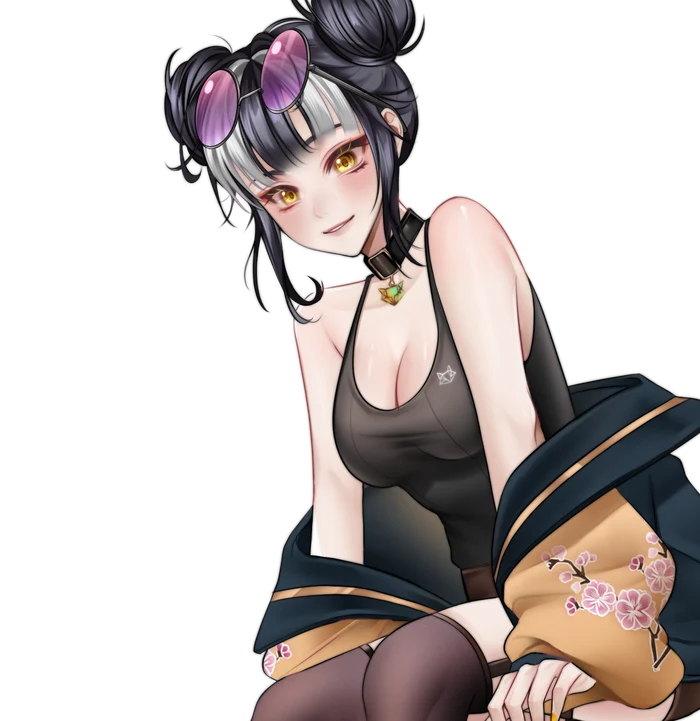
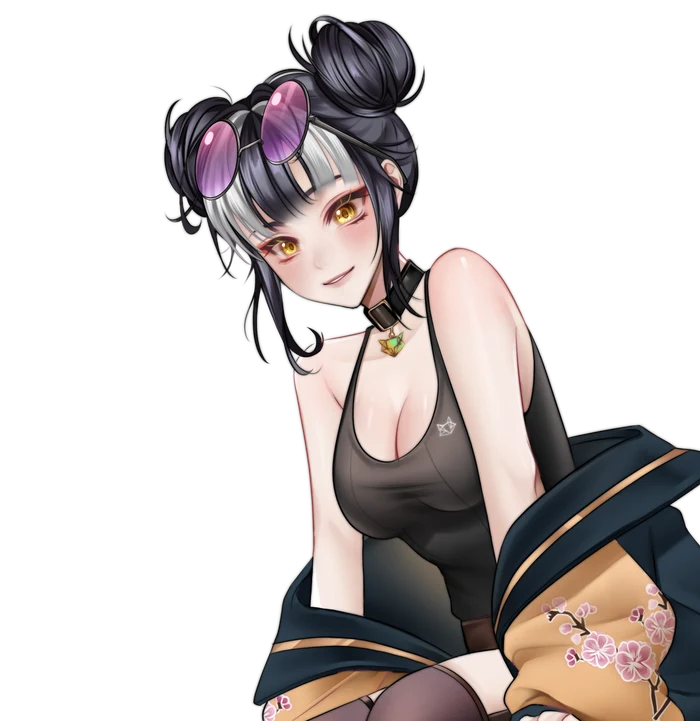
Single-image talents sit flush to frame bottom; SaiMaiZ fills frame; XINPIA close-up headroom
Claude-Session: https://claude.ai/code/session_0182ETGqkY6VZC2ACV9rE9Mb

diff --git a/index.html b/index.html
@@ -486,6 +486,9 @@ html[lang="th"] .h2{padding-top:.08em}
 .tier::after{content:'';position:absolute;inset:0;border-radius:inherit;padding:3px;pointer-events:none;z-index:2;-webkit-mask:linear-gradient(#000 0 0) content-box,linear-gradient(#000 0 0);-webkit-mask-composite:xor;mask:linear-gradient(#000 0 0) content-box exclude,linear-gradient(#000 0 0)}
 .r-face.tier::after{padding:2.5px}
 .stage-art.tier::after{padding:4px}
+.stage-art.flush{align-items:flex-end}
+.stage-art.flush .stage-img{padding:12px 12px 0;object-position:center bottom}
+.stage-art.fill .stage-img{position:absolute;inset:0;width:100%;height:100%;max-height:none;padding:0;object-fit:cover}
 .tier-chip.big{top:14px;right:14px;font-size:13px;padding:4px 11px}
 .tier-silver::after{background:linear-gradient(135deg,#F7F8FA 0%,#A9B0BB 30%,#FFFFFF 50%,#8E96A3 72%,#E9ECF0 100%)}
 .tier-gold::after{background:linear-gradient(135deg,#FFF4C8 0%,#D9A93A 30%,#FFF7DA 50%,#B88424 72%,#F6DE8F 100%)}
@@ -1005,25 +1008,25 @@ var TALENTS = [
   { id:'v7-qmon', img:'talent-v7-qmon.webp', face:'talent-v7-qmon-face.webp?v=4', halves:['talent-v7-qmon-half.webp?v=4'], card:'talent-v7-qmon-half.webp?v=4', name:'TheQuillmon', short:'Quillmon', ini:'T', type:'VTuber', aff:{name:'Virtual 7', logo:'logos/virtual7.png'}, langs:['th', 'en'], color:'#F6DADA', tags:['#FreeTalk', '#Gaming'], works:['promo', 'review', 'dub', 'collab'], links:[['YouTube',405000,'https://www.youtube.com/@TheQuillmon'],['X',null,'https://x.com/thequillmon1112'],['TikTok',null,'https://www.tiktok.com/@thequillmon'],['Facebook',null,'https://www.facebook.com/thequillmonnn']] },
   { id:'v7-miyabi', img:'talent-v7-miyabi.webp', face:'talent-v7-miyabi-face.webp?v=4', halves:['talent-v7-miyabi-half.webp?v=4'], card:'talent-v7-miyabi-half.webp?v=4', name:'Moe Miyabi', short:'Miyabi', ini:'MM', type:'VTuber', aff:{name:'Virtual 7', logo:'logos/virtual7.png'}, langs:['th', 'en'], color:'#E6E1F0', tags:['#FreeTalk', '#ASMR', '#Gaming'], works:['promo', 'review', 'dub', 'collab'], links:[['YouTube',12400,'https://www.youtube.com/@MoeMiyabiV7'],['X',null,'https://x.com/moe_miyabi'],['TikTok',null,'https://www.tiktok.com/@moe_miyabi'],['Twitch',null,'https://www.twitch.tv/moemiyabi'],['Facebook',null,'https://www.facebook.com/MoeMiyabiVZ']] },
   { id:'v7-ziika', img:'talent-v7-ziika.webp', face:'talent-v7-ziika-face.webp?v=4', halves:['talent-v7-ziika-half.webp?v=4'], card:'talent-v7-ziika-half.webp?v=4', name:'Ziika', short:'Ziika', ini:'Z', type:'VTuber', aff:{name:'Virtual 7', logo:'logos/virtual7.png'}, langs:['th', 'en'], color:'#E3E8F2', tags:['#FreeTalk', '#Singing'], works:['promo', 'review', 'dub', 'collab', 'cover'], links:[['YouTube',11300,'https://www.youtube.com/@MU_ziika'],['X',null,'https://x.com/MU_Ziika'],['TikTok',null,'https://www.tiktok.com/@mu_ziika'],['Twitch',null,'https://www.twitch.tv/ziika_vz'],['Facebook',null,'https://www.facebook.com/ZiikaVZ']] },
-  { id:'v7-c', img:'talent-v7-c.webp', face:'talent-v7-c-face.webp?v=4', name:'C', short:'C', ini:'C', type:'VTuber', aff:{name:'Virtual 7', logo:'logos/virtual7.png'}, langs:['th'], color:'#DDF3D6', tags:['#FreeTalk', '#Gaming'], works:['promo', 'review', 'dub', 'collab'], links:[['YouTube',4290,'https://www.youtube.com/@ProjectC_VZ'],['X',null,'https://x.com/VZ_Project_C'],['TikTok',null,'https://www.tiktok.com/@project_c.vz'],['Facebook',null,'https://www.facebook.com/ProjectC.vz']] },
+  { id:'v7-c', flush:true, img:'talent-v7-c.webp', face:'talent-v7-c-face.webp?v=4', name:'C', short:'C', ini:'C', type:'VTuber', aff:{name:'Virtual 7', logo:'logos/virtual7.png'}, langs:['th'], color:'#DDF3D6', tags:['#FreeTalk', '#Gaming'], works:['promo', 'review', 'dub', 'collab'], links:[['YouTube',4290,'https://www.youtube.com/@ProjectC_VZ'],['X',null,'https://x.com/VZ_Project_C'],['TikTok',null,'https://www.tiktok.com/@project_c.vz'],['Facebook',null,'https://www.facebook.com/ProjectC.vz']] },
   { id:'v7-phoebe', img:'talent-v7-phoebe.webp', face:'talent-v7-phoebe-face.webp?v=4', name:'Phoebe', short:'Phoebe', ini:'P', type:'VTuber', aff:{name:'Virtual 7', logo:'logos/virtual7.png'}, langs:['th', 'en'], color:'#DDF1EE', tags:['#FreeTalk', '#Gaming'], works:['promo', 'review', 'dub', 'collab'], links:[['YouTube',4020,'https://www.youtube.com/@PhoebeVZ'],['X',null,'https://x.com/vz_phoebe'],['TikTok',null,'https://www.tiktok.com/@phoebebuddyvz'],['Facebook',null,'https://www.facebook.com/PhoebeVZ']] },
   { id:'v7-wint3r', img:'talent-v7-wint3r.webp', face:'talent-v7-wint3r-face.webp?v=4', halves:['talent-v7-wint3r-half.webp?v=4'], card:'talent-v7-wint3r-half.webp?v=4', name:'WIN3R', short:'WIN3R', ini:'W', type:'VTuber', aff:{name:'Virtual 7', logo:'logos/virtual7.png'}, langs:['th', 'en'], color:'#E6E0FA', tags:['#FreeTalk', '#ASMR', '#Singing'], works:['promo', 'review', 'dub', 'collab', 'cover'], links:[['YouTube',14900,'https://www.youtube.com/@wint3r_vz'],['X',null,'https://x.com/wint3r_vz'],['TikTok',null,'https://www.tiktok.com/@wint3r_vz'],['Facebook',null,'https://www.facebook.com/Wint3rVZ']] },
-  { id:'v7-sp1ng', img:'talent-v7-sp1ng.webp', face:'talent-v7-sp1ng-face.webp?v=4', name:'SPR1NG', short:'SPR1NG', ini:'S', type:'VTuber', aff:{name:'Virtual 7', logo:'logos/virtual7.png'}, langs:['th', 'en'], color:'#D9F3EF', tags:['#FreeTalk', '#Gaming'], works:['promo', 'review', 'dub', 'collab'], links:[['YouTube',5770,'https://www.youtube.com/@spr1ng_vz'],['X',null,'https://x.com/SPR1NG_VZ'],['TikTok',null,'https://www.tiktok.com/@spr1ng_vz']] },
+  { id:'v7-sp1ng', flush:true, img:'talent-v7-sp1ng.webp', face:'talent-v7-sp1ng-face.webp?v=4', name:'SPR1NG', short:'SPR1NG', ini:'S', type:'VTuber', aff:{name:'Virtual 7', logo:'logos/virtual7.png'}, langs:['th', 'en'], color:'#D9F3EF', tags:['#FreeTalk', '#Gaming'], works:['promo', 'review', 'dub', 'collab'], links:[['YouTube',5770,'https://www.youtube.com/@spr1ng_vz'],['X',null,'https://x.com/SPR1NG_VZ'],['TikTok',null,'https://www.tiktok.com/@spr1ng_vz']] },
   { id:'v7-statesia', img:'talent-v7-statesia.webp', face:'talent-v7-statesia-face.webp?v=6', halves:['talent-v7-statesia-half.webp?v=4'], card:'talent-v7-statesia-half.webp?v=4', name:'STATE & SIA', short:'STATE & SIA', ini:'SS', type:'VTuber', aff:{name:'Virtual 7', logo:'logos/virtual7.png'}, langs:['th'], color:'#F6E1E6', tags:['#FreeTalk', '#Singing', '#Gaming'], works:['promo', 'review', 'dub', 'collab', 'cover'], links:[['YouTube',10500,'https://www.youtube.com/@StateSiaVZ'],['TikTok',null,'https://www.tiktok.com/@statesia.vz'],['X',null,'https://x.com/State_vz','X (State)'],['X',null,'https://x.com/SIA_vz','X (Sia)'],['Facebook',null,'https://www.facebook.com/statesia.vz']] },
-  { id:'v7-perika', img:'talent-v7-perika.webp', face:'talent-v7-perika-face.webp?v=4', name:'PE:RIKA', short:'PE:RIKA', ini:'P', type:'VTuber', aff:{name:'Virtual 7', logo:'logos/virtual7.png'}, langs:['th', 'en'], color:'#E2E8F4', tags:['#FreeTalk', '#Gaming'], works:['promo', 'review', 'dub', 'collab'], links:[['YouTube',2290,'https://www.youtube.com/@PerikaVZ'],['X',null,'https://x.com/PerikaVZ']] },
-  { id:'v7-cheshire', img:'talent-v7-cheshire.webp', face:'talent-v7-cheshire-face.webp?v=4', name:'CHE:SHIRE', short:'CHE:SHIRE', ini:'C', type:'VTuber', aff:{name:'Virtual 7', logo:'logos/virtual7.png'}, langs:['th'], color:'#E4E0F6', tags:['#FreeTalk', '#Gaming'], works:['promo', 'review', 'dub', 'collab'], links:[['YouTube',9010,'https://www.youtube.com/@CheshireVZ'],['X',null,'https://x.com/CheshireVZ']] },
+  { id:'v7-perika', flush:true, img:'talent-v7-perika.webp', face:'talent-v7-perika-face.webp?v=4', name:'PE:RIKA', short:'PE:RIKA', ini:'P', type:'VTuber', aff:{name:'Virtual 7', logo:'logos/virtual7.png'}, langs:['th', 'en'], color:'#E2E8F4', tags:['#FreeTalk', '#Gaming'], works:['promo', 'review', 'dub', 'collab'], links:[['YouTube',2290,'https://www.youtube.com/@PerikaVZ'],['X',null,'https://x.com/PerikaVZ']] },
+  { id:'v7-cheshire', flush:true, img:'talent-v7-cheshire.webp', face:'talent-v7-cheshire-face.webp?v=4', name:'CHE:SHIRE', short:'CHE:SHIRE', ini:'C', type:'VTuber', aff:{name:'Virtual 7', logo:'logos/virtual7.png'}, langs:['th'], color:'#E4E0F6', tags:['#FreeTalk', '#Gaming'], works:['promo', 'review', 'dub', 'collab'], links:[['YouTube',9010,'https://www.youtube.com/@CheshireVZ'],['X',null,'https://x.com/CheshireVZ']] },
   { id:'v7-stamplmty', img:'talent-v7-stamplmty.webp', face:'talent-v7-stamplmty-face.webp?v=4', halves:['talent-v7-stamplmty-half.webp?v=4'], card:'talent-v7-stamplmty-half.webp?v=4', name:'Stamp LMTY', short:'Stamp', ini:'SL', type:'VTuber', aff:{name:'Virtual 7', logo:'logos/virtual7.png'}, langs:['th', 'en'], color:'#F2E2EA', tags:['#FreeTalk', '#Gaming'], works:['promo', 'review', 'dub', 'collab'], links:[['YouTube',160000,'https://www.youtube.com/@StampLMTY'],['X',null,'https://x.com/StampLMTY'],['TikTok',null,'https://www.tiktok.com/@stamplmty'],['Facebook',null,'https://www.facebook.com/StampLMTY']] },
-  { id:'v7-xinpia', img:'talent-v7-xinpia.webp', face:'talent-v7-xinpia-face.webp?v=4', halves:['talent-v7-xinpia-half.webp?v=4'], card:'talent-v7-xinpia-half.webp?v=4', name:'XINPIA', short:'XINPIA', ini:'X', type:'VTuber', aff:{name:'Virtual 7', logo:'logos/virtual7.png'}, langs:['th'], color:'#EEE6DD', tags:['#FreeTalk', '#Gaming'], works:['promo', 'review', 'dub', 'collab'], links:[['YouTube',2600,'https://www.youtube.com/@XINPIA'],['X',null,'https://x.com/xinpia'],['TikTok',null,'https://www.tiktok.com/@xinpia03'],['Facebook',null,'https://www.facebook.com/XINPIA03'],['Twitch',null,'https://www.twitch.tv/xinpia03']] },
+  { id:'v7-xinpia', img:'talent-v7-xinpia.webp', face:'talent-v7-xinpia-face.webp?v=4', halves:['talent-v7-xinpia-half.webp?v=5'], card:'talent-v7-xinpia-half.webp?v=5', name:'XINPIA', short:'XINPIA', ini:'X', type:'VTuber', aff:{name:'Virtual 7', logo:'logos/virtual7.png'}, langs:['th'], color:'#EEE6DD', tags:['#FreeTalk', '#Gaming'], works:['promo', 'review', 'dub', 'collab'], links:[['YouTube',2600,'https://www.youtube.com/@XINPIA'],['X',null,'https://x.com/xinpia'],['TikTok',null,'https://www.tiktok.com/@xinpia03'],['Facebook',null,'https://www.facebook.com/XINPIA03'],['Twitch',null,'https://www.twitch.tv/xinpia03']] },
   { id:'v7-shogo', img:'talent-v7-shogo.webp', face:'talent-v7-shogo-face.webp?v=5', halves:['talent-v7-shogo-half.webp?v=4'], card:'talent-v7-shogo-half.webp?v=4', name:'Shogo', short:'Shogo', ini:'S', type:'VTuber', aff:{name:'Virtual 7', logo:'logos/virtual7.png'}, langs:['th'], color:'#E3F0E4', tags:['#FreeTalk', '#Gaming', '#Singing'], works:['promo', 'review', 'dub', 'collab', 'cover'], links:[['YouTube',20100,'https://www.youtube.com/@ShogoCh'],['X',null,'https://x.com/KamikoShogo'],['TikTok',null,'https://www.tiktok.com/@kamikoshogo'],['Facebook',null,'https://www.facebook.com/people/Shogo-CH/100089248571864/']] },
-  { id:'v7-firstslove', img:'talent-v7-firstslove.webp', face:'talent-v7-firstslove-face.webp?v=4', name:'FL_FirstsLove', short:'FirstsLove', ini:'F', type:'VTuber', aff:{name:'Virtual 7', logo:'logos/virtual7.png'}, langs:['th', 'en'], color:'#F3E6DA', tags:['#FreeTalk', '#Gaming', '#Singing'], works:['promo', 'review', 'dub', 'collab', 'cover'], links:[['YouTube',6860,'https://www.youtube.com/@fl_firstslove'],['X',null,'https://x.com/FL_FirstsLove'],['TikTok',null,'https://www.tiktok.com/@fl_firstslove'],['Facebook',null,'https://www.facebook.com/FL.FirstsLove'],['Twitch',null,'https://www.twitch.tv/fl_firstslove'],['Instagram',null,'https://www.instagram.com/fl.firstslove']] },
-  { id:'v7-saimaiz', img:'talent-v7-saimaiz.webp', face:'talent-v7-saimaiz-face.webp?v=4', name:'SaiMaiZ', short:'SaiMaiZ', ini:'S', type:'VTuber', aff:{name:'Virtual 7', logo:'logos/virtual7.png'}, langs:['th'], color:'#EADCF2', tags:['#FreeTalk', '#Gaming', '#Singing'], works:['promo', 'review', 'dub', 'collab', 'cover'], links:[['YouTube',10200,'https://www.youtube.com/@SaiMaiZ'],['X',null,'https://x.com/SaiMaiZ_'],['TikTok',null,'https://www.tiktok.com/@saimaiz_'],['Facebook',null,'https://www.facebook.com/SaiMaiZVtuberTH'],['Twitch',null,'https://www.twitch.tv/saimaizvtuberth']] },
-  { id:'v7-foodiefo', img:'talent-v7-foodiefo.webp', face:'talent-v7-foodiefo-face.webp?v=4', name:'FoodieFo', short:'FoodieFo', ini:'F', type:'VTuber', aff:{name:'Virtual 7', logo:'logos/virtual7.png'}, langs:['th'], color:'#FCE6E3', tags:['#FreeTalk'], works:['promo', 'review', 'dub', 'collab'], links:[['YouTube',3770,'https://www.youtube.com/@foodiefoch'],['X',null,'https://x.com/FoodieFo_4'],['TikTok',null,'https://www.tiktok.com/@foodiefo_4'],['Facebook',null,'https://www.facebook.com/profile.php?id=100081675722891']] },
+  { id:'v7-firstslove', flush:true, img:'talent-v7-firstslove.webp', face:'talent-v7-firstslove-face.webp?v=4', name:'FL_FirstsLove', short:'FirstsLove', ini:'F', type:'VTuber', aff:{name:'Virtual 7', logo:'logos/virtual7.png'}, langs:['th', 'en'], color:'#F3E6DA', tags:['#FreeTalk', '#Gaming', '#Singing'], works:['promo', 'review', 'dub', 'collab', 'cover'], links:[['YouTube',6860,'https://www.youtube.com/@fl_firstslove'],['X',null,'https://x.com/FL_FirstsLove'],['TikTok',null,'https://www.tiktok.com/@fl_firstslove'],['Facebook',null,'https://www.facebook.com/FL.FirstsLove'],['Twitch',null,'https://www.twitch.tv/fl_firstslove'],['Instagram',null,'https://www.instagram.com/fl.firstslove']] },
+  { id:'v7-saimaiz', fill:'58% 40%', img:'talent-v7-saimaiz.webp?v=2', face:'talent-v7-saimaiz-face.webp?v=4', name:'SaiMaiZ', short:'SaiMaiZ', ini:'S', type:'VTuber', aff:{name:'Virtual 7', logo:'logos/virtual7.png'}, langs:['th'], color:'#EADCF2', tags:['#FreeTalk', '#Gaming', '#Singing'], works:['promo', 'review', 'dub', 'collab', 'cover'], links:[['YouTube',10200,'https://www.youtube.com/@SaiMaiZ'],['X',null,'https://x.com/SaiMaiZ_'],['TikTok',null,'https://www.tiktok.com/@saimaiz_'],['Facebook',null,'https://www.facebook.com/SaiMaiZVtuberTH'],['Twitch',null,'https://www.twitch.tv/saimaizvtuberth']] },
+  { id:'v7-foodiefo', flush:true, img:'talent-v7-foodiefo.webp', face:'talent-v7-foodiefo-face.webp?v=4', name:'FoodieFo', short:'FoodieFo', ini:'F', type:'VTuber', aff:{name:'Virtual 7', logo:'logos/virtual7.png'}, langs:['th'], color:'#FCE6E3', tags:['#FreeTalk'], works:['promo', 'review', 'dub', 'collab'], links:[['YouTube',3770,'https://www.youtube.com/@foodiefoch'],['X',null,'https://x.com/FoodieFo_4'],['TikTok',null,'https://www.tiktok.com/@foodiefo_4'],['Facebook',null,'https://www.facebook.com/profile.php?id=100081675722891']] },
   { id:'v7-derya', img:'talent-v7-derya.webp', face:'talent-v7-derya-face.webp?v=4', halves:['talent-v7-derya-half.webp?v=4'], card:'talent-v7-derya-half.webp?v=4', name:'Derya', short:'Derya', ini:'D', type:'VTuber', aff:{name:'Virtual 7', logo:'logos/virtual7.png'}, langs:['th'], color:'#E8E0F4', tags:['#FreeTalk', '#Gaming', '#Singing'], works:['promo', 'review', 'dub', 'collab', 'cover'], links:[['YouTube',668,'https://www.youtube.com/@Derya_Vtuber'],['X',null,'https://x.com/DeryaVtuber'],['TikTok',null,'https://www.tiktok.com/@derya_vtuber']] },
   { id:'v7-cozyclover', img:'talent-v7-cozyclover.webp', face:'talent-v7-cozyclover-face.webp?v=5', halves:['talent-v7-cozyclover-half.webp?v=4'], card:'talent-v7-cozyclover-half.webp?v=4', name:'CozyClover', short:'CozyClover', ini:'C', type:'VTuber', aff:{name:'Virtual 7', logo:'logos/virtual7.png'}, langs:['th'], color:'#E1EAF7', tags:['#FreeTalk', '#Gaming', '#Singing'], works:['promo', 'review', 'dub', 'collab', 'cover'], links:[['YouTube',4650,'https://www.youtube.com/@CozyClover-Vtuber'],['X',null,'https://x.com/CozyClover_'],['TikTok',null,'https://www.tiktok.com/@cozyclover_'],['Facebook',null,'https://www.facebook.com/profile.php?id=100093952976608'],['Twitch',null,'https://www.twitch.tv/cozyclover_']] },
   { id:'v7-amellyn', img:'talent-v7-amellyn.webp', face:'talent-v7-amellyn-face.webp?v=4', halves:['talent-v7-amellyn-half.webp?v=4'], card:'talent-v7-amellyn-half.webp?v=4', name:'Amellyn', short:'Amellyn', ini:'A', type:'VTuber', aff:{name:'Virtual 7', logo:'logos/virtual7.png'}, langs:['th'], color:'#FBE1EC', tags:['#FreeTalk', '#Gaming'], works:['promo', 'review', 'dub', 'collab'], links:[['YouTube',1480,'https://www.youtube.com/@AmellynFairy'],['X',null,'https://x.com/AmellynFairy'],['TikTok',null,'https://www.tiktok.com/@amellynfairy']] },
   { id:'v7-jazy', img:'talent-v7-jazy.webp', face:'talent-v7-jazy-face.webp?v=4', halves:['talent-v7-jazy-half.webp?v=4'], card:'talent-v7-jazy-half.webp?v=4', name:'JazyKix', short:'JazyKix', ini:'J', type:'VTuber', aff:{name:'Virtual 7', logo:'logos/virtual7.png'}, langs:['th'], color:'#DDEDEE', tags:['#FreeTalk', '#Gaming', '#Singing'], works:['promo', 'review', 'dub', 'collab', 'cover'], links:[['YouTube',1690,'https://www.youtube.com/@JazyKix_Channel'],['X',null,'https://x.com/JazyKix_Vtuber'],['TikTok',null,'https://www.tiktok.com/@jazykix'],['Facebook',null,'https://www.facebook.com/jazykix.vtuber']] },
   { id:'v7-lumin', img:'talent-v7-lumin.webp', face:'talent-v7-lumin-face.webp?v=4', halves:['talent-v7-lumin-half.webp?v=4'], card:'talent-v7-lumin-half.webp?v=4', name:'LUM1N S.', short:'LUM1N', ini:'LS', type:'VTuber', aff:{name:'Virtual 7', logo:'logos/virtual7.png'}, langs:['th', 'en'], color:'#F3EEDD', tags:['#FreeTalk', '#Gaming', '#RolePlay'], works:['promo', 'review', 'dub', 'collab'], links:[['YouTube',2380,'https://www.youtube.com/@LUM1NS'],['X',null,'https://x.com/LuminShinehart'],['TikTok',null,'https://www.tiktok.com/@luminshinehart']] },
-  { id:'v7-kealan', img:'talent-v7-kealan.webp', face:'talent-v7-kealan-face.webp?v=5', name:'Kealan Hmm', short:'Kealan', ini:'KH', type:'VTuber', aff:{name:'Virtual 7', logo:'logos/virtual7.png'}, langs:['th', 'en'], color:'#DFE3F3', tags:['#FreeTalk', '#Gaming'], works:['promo', 'review', 'dub', 'collab'], links:[['YouTube',1750,'https://www.youtube.com/@KealanHmm'],['X',null,'https://x.com/KealanHmm'],['TikTok',null,'https://www.tiktok.com/@kealan.hmm']] },
+  { id:'v7-kealan', flush:true, img:'talent-v7-kealan.webp', face:'talent-v7-kealan-face.webp?v=5', name:'Kealan Hmm', short:'Kealan', ini:'KH', type:'VTuber', aff:{name:'Virtual 7', logo:'logos/virtual7.png'}, langs:['th', 'en'], color:'#DFE3F3', tags:['#FreeTalk', '#Gaming'], works:['promo', 'review', 'dub', 'collab'], links:[['YouTube',1750,'https://www.youtube.com/@KealanHmm'],['X',null,'https://x.com/KealanHmm'],['TikTok',null,'https://www.tiktok.com/@kealan.hmm']] },
   { id:'v7-poya', img:'talent-v7-poya.webp', face:'talent-v7-poya-face.webp?v=4', halves:['talent-v7-poya-half.webp?v=4'], card:'talent-v7-poya-half.webp?v=4', name:'Chiipika Poya', short:'Poya', ini:'CP', type:'VTuber', aff:{name:'Virtual 7', logo:'logos/virtual7.png'}, langs:['en'], color:'#ECF4D6', tags:['#FreeTalk', '#Gaming', '#Drawing'], works:['promo', 'review', 'dub', 'collab'], links:[['YouTube',404,'https://www.youtube.com/@ChiipikaPoyaVZ'],['X',null,'https://x.com/chiipikapoya_vz'],['TikTok',null,'https://www.tiktok.com/@chiipikapoya_vz'],['Twitch',null,'https://www.twitch.tv/ChiipikaPoya_VZ']] },
   { id:'v7-coralyn', img:'talent-v7-coralyn.webp', face:'talent-v7-coralyn-face.webp?v=4', halves:['talent-v7-coralyn-half.webp?v=4'], card:'talent-v7-coralyn-half.webp?v=4', name:'Coralyn Mare', short:'Coralyn', ini:'CM', type:'VTuber', aff:{name:'Virtual 7', logo:'logos/virtual7.png'}, langs:['th', 'en'], color:'#DFEFFA', tags:['#FreeTalk', '#Gaming', '#Singing'], works:['promo', 'review', 'dub', 'collab', 'cover'], links:[['YouTube',338,'https://www.youtube.com/@CoralynMareVZ'],['X',null,'https://x.com/coralynmare_vz'],['TikTok',null,'https://www.tiktok.com/@coralynmare_vz'],['Twitch',null,'https://www.twitch.tv/coralynmare_vz']] },
   { id:'v7-flynn', img:'talent-v7-flynn.webp', face:'talent-v7-flynn-face.webp?v=4', halves:['talent-v7-flynn-half.webp?v=4'], card:'talent-v7-flynn-half.webp?v=4', name:'Flynn Mycorrin', short:'Flynn', ini:'FM', type:'VTuber', aff:{name:'Virtual 7', logo:'logos/virtual7.png'}, langs:['en', 'lt'], color:'#ECE7D8', tags:['#FreeTalk', '#Gaming'], works:['promo', 'review', 'dub', 'collab'], links:[['YouTube',237,'https://www.youtube.com/@FlynnMycorrinVZ'],['X',null,'https://x.com/FlynnMyco_VZ'],['TikTok',null,'https://www.tiktok.com/@flynnmycorrin_vz'],['Twitch',null,'https://www.twitch.tv/flynnmycorrin_vz']] },
@@ -1249,7 +1252,7 @@ function renderTalent(){
   }
   var cur = list.filter(function(x){ return x.id===st.sel; })[0] || list[0];
   var oldR = document.querySelector('#talentSelect .roster'), oldSL = oldR ? oldR.scrollLeft : null;
-  $('talentSelect').innerHTML = '<div class="stage">'+'<div class="roster-bar"><div class="roster" role="group">'+list.map(function(x){ return '<button class="r-btn" data-pick="'+x.id+'" aria-pressed="'+(x.id===cur.id)+'"><span class="r-face'+(tierOf(x)?' tier tier-'+tierOf(x):'')+'" style="background:'+x.color+'">'+(x.face ? '<img src="'+x.face+'" alt="">' : x.ini)+'</span>'+'<span class="nm">'+esc(x.short)+'</span></button>'; }).join('')+'<div class="r-soon" aria-hidden="true"><span class="r-face">+</span><span class="nm">Coming soon</span></div>'+'</div><button class="r-grid" type="button" data-mode="cards" title="'+t('tal.cards')+'" aria-label="'+t('tal.cards')+'"><svg width="22" height="22" viewBox="0 0 24 24" fill="currentColor" aria-hidden="true"><rect x="3" y="3" width="8" height="8" rx="2"/><rect x="13" y="3" width="8" height="8" rx="2"/><rect x="3" y="13" width="8" height="8" rx="2"/><rect x="13" y="13" width="8" height="8" rx="2"/></svg></button></div>'+'<div class="stage-art'+(tierOf(cur)?' tier tier-'+tierOf(cur):'')+(canZoom(cur)?(zoomOn(cur)?' zoomable zoomed':' zoomable'):'')+'" style="background:'+cur.color+'"'+(canZoom(cur)?' data-zoom="1"':'')+'>'+(cur.img ? '<img class="stage-img" src="'+(zoomOn(cur) ? cur.halves[st.form[cur.id]||0] : imgOf(cur))+'" alt="'+esc(nameOf(cur))+'">' : '<span class="ini" aria-hidden="true">'+cur.ini+'</span><span class="lbl">'+t('tal.img')+'</span>')+formSw(cur)+(canZoom(cur)?'<span class="zoom-hint">'+(zoomOn(cur)?'⤢ '+t('tal.full'):'🔍 '+t('tal.zoom'))+'</span>':'')+'<i class="spk s1"></i><i class="spk s2"></i><i class="spk s3"></i></div><div class="stage-info">'+infoHTML(cur)+'</div></div>';
+  $('talentSelect').innerHTML = '<div class="stage">'+'<div class="roster-bar"><div class="roster" role="group">'+list.map(function(x){ return '<button class="r-btn" data-pick="'+x.id+'" aria-pressed="'+(x.id===cur.id)+'"><span class="r-face'+(tierOf(x)?' tier tier-'+tierOf(x):'')+'" style="background:'+x.color+'">'+(x.face ? '<img src="'+x.face+'" alt="">' : x.ini)+'</span>'+'<span class="nm">'+esc(x.short)+'</span></button>'; }).join('')+'<div class="r-soon" aria-hidden="true"><span class="r-face">+</span><span class="nm">Coming soon</span></div>'+'</div><button class="r-grid" type="button" data-mode="cards" title="'+t('tal.cards')+'" aria-label="'+t('tal.cards')+'"><svg width="22" height="22" viewBox="0 0 24 24" fill="currentColor" aria-hidden="true"><rect x="3" y="3" width="8" height="8" rx="2"/><rect x="13" y="3" width="8" height="8" rx="2"/><rect x="3" y="13" width="8" height="8" rx="2"/><rect x="13" y="13" width="8" height="8" rx="2"/></svg></button></div>'+'<div class="stage-art'+(cur.flush?' flush':'')+(cur.fill?' fill':'')+(tierOf(cur)?' tier tier-'+tierOf(cur):'')+(canZoom(cur)?(zoomOn(cur)?' zoomable zoomed':' zoomable'):'')+'" style="background:'+cur.color+'"'+(canZoom(cur)?' data-zoom="1"':'')+'>'+(cur.img ? '<img class="stage-img"'+(cur.fill?' style="object-position:'+cur.fill+'"':'')+' src="'+(zoomOn(cur) ? cur.halves[st.form[cur.id]||0] : imgOf(cur))+'" alt="'+esc(nameOf(cur))+'">' : '<span class="ini" aria-hidden="true">'+cur.ini+'</span><span class="lbl">'+t('tal.img')+'</span>')+formSw(cur)+(canZoom(cur)?'<span class="zoom-hint">'+(zoomOn(cur)?'⤢ '+t('tal.full'):'🔍 '+t('tal.zoom'))+'</span>':'')+'<i class="spk s1"></i><i class="spk s2"></i><i class="spk s3"></i></div><div class="stage-info">'+infoHTML(cur)+'</div></div>';
   $('talentCards').innerHTML = '<div class="tg-grid">'+list.map(function(x){
     var src = x.face || x.card || imgOf(x);
     return '<button class="tg" data-goto="'+x.id+'"><span class="tg-img'+(tierOf(x)?' tier tier-'+tierOf(x):'')+'" style="background:'+x.color+'">'+(src ? '<img src="'+src+'" alt="" loading="lazy">' : '<b>'+x.ini+'</b>')+(tierOf(x)?'<i class="tier-chip">'+(tierOf(x)==='gold'?'500K+':'100K+')+'</i>':'')+'</span><span class="tg-nm">'+esc(x.short||nameOf(x))+'</span></button>';
